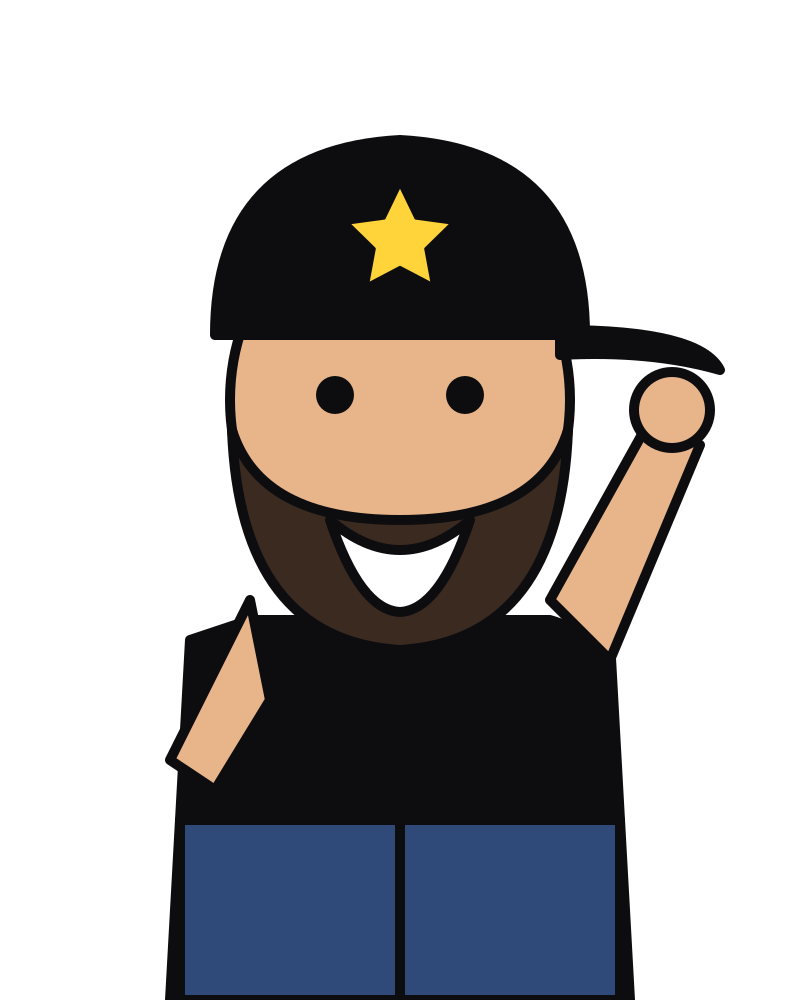
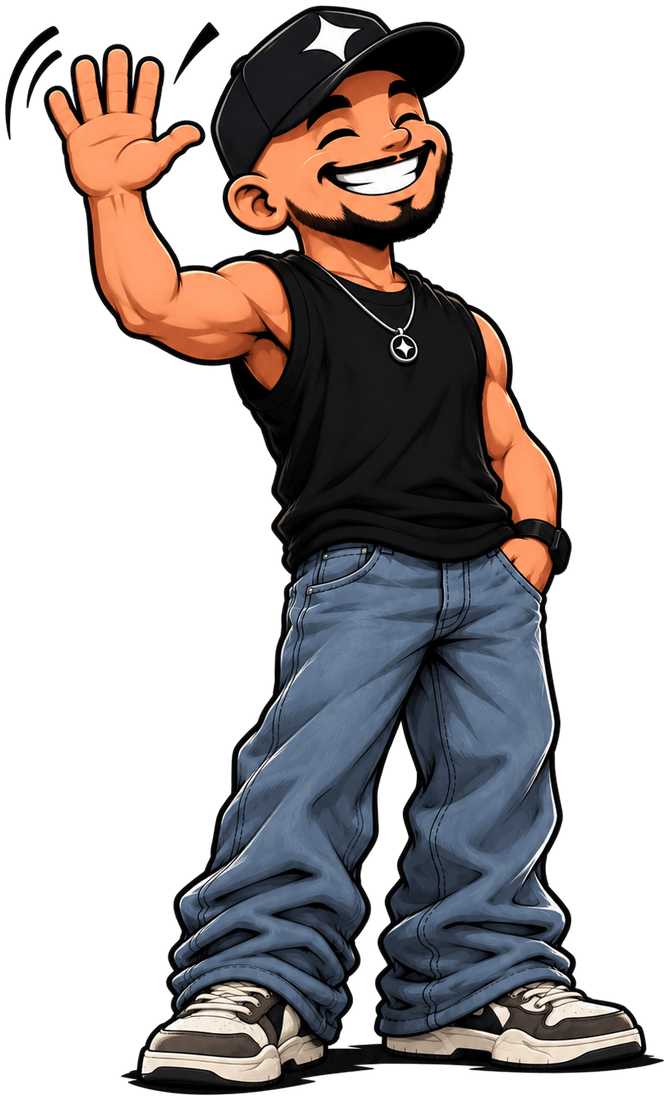
Install the final SHOWGUY mascot artwork
- Four poses (mic, wave, reach, point) with backgrounds cut out to
  transparent PNGs, trimmed and sized for the web.
- Placed by pose: full-body mic in the hero, chest-up reaching in the
  problem section and apply sidebar, pointing beside the final CTA, and
  waving on the thank-you page.
- Original uploads removed from the repo root (kept in git history).

Claude-Session: https://claude.ai/code/session_01TDno4tfALFccJgaoVV23Rq

diff --git a/src/config/brand.ts b/src/config/brand.ts
@@ -3,7 +3,7 @@
  * Drop your final files into /public/brand with the SAME file names and they
  * appear everywhere. See public/brand/README.md.
  *
- * If your final mascot images are a different shape, update width/height here.
+ * If you replace a mascot image with a different shape, update its width/height here.
  */
 export const brand = {
   logo: {
@@ -15,12 +15,20 @@ export const brand = {
     height: 234,
     alt: "SHOWGUY",
   },
+  /**
+   * The mascot poses (transparent PNGs in /public/brand). Width/height are each
+   * image's real size, so nothing jumps while it loads.
+   *   mic   – full body, microphone, hand reaching out
+   *   wave  – full body, waving
+   *   reach – chest-up version of "mic"
+   *   point – chest-up, pointing at you
+   */
   mascot: {
-    default: "/brand/mascot.png",
-    wave: "/brand/mascot-wave.png",
-    width: 800,
-    height: 1000,
-    alt: "The SHOWGUY mascot: a smiling, bearded cartoon man in a baseball cap, black sleeveless T-shirt and jeans",
+    mic: { src: "/brand/mascot-mic.png", width: 589, height: 1100 },
+    wave: { src: "/brand/mascot-wave.png", width: 669, height: 1100 },
+    reach: { src: "/brand/mascot-reach.png", width: 854, height: 900 },
+    point: { src: "/brand/mascot-point.png", width: 799, height: 900 },
+    alt: "The SHOWGUY mascot: a smiling, bearded man in a star-logo cap, black sleeveless T-shirt and jeans, holding a microphone",
   },
   socialCard: "/brand/social-card.jpg",
   favicon: "/brand/favicon.svg",

diff --git a/src/components/Mascot.tsx b/src/components/Mascot.tsx
@@ -2,7 +2,7 @@ import Image from "next/image";
 import { brand } from "@/config/brand";
 
 type Props = {
-  variant?: "default" | "wave";
+  variant?: "mic" | "wave" | "reach" | "point";
   className?: string;
   /** Gentle floating motion (switched off for reduced-motion users). */
   float?: boolean;
@@ -13,21 +13,22 @@ type Props = {
   decorative?: boolean;
 };
 
-/** The SHOWGUY mascot. Swap the files in /public/brand to change him everywhere. */
+/** The SHOWGUY mascot. Pick a pose with `variant`; swap the files in /public/brand to change him everywhere. */
 export function Mascot({
-  variant = "default",
+  variant = "mic",
   className = "",
   float = false,
   eager = false,
   sizes = "(min-width: 1024px) 520px, 70vw",
   decorative = true,
 }: Props) {
+  const pose = brand.mascot[variant];
   return (
     <Image
-      src={variant === "wave" ? brand.mascot.wave : brand.mascot.default}
+      src={pose.src}
       alt={decorative ? "" : brand.mascot.alt}
-      width={brand.mascot.width}
-      height={brand.mascot.height}
+      width={pose.width}
+      height={pose.height}
       sizes={sizes}
       loading={eager ? "eager" : "lazy"}
       fetchPriority={eager ? "high" : "auto"}

diff --git a/src/components/ApplySidebar.tsx b/src/components/ApplySidebar.tsx
@@ -51,7 +51,7 @@ export function ApplySidebar() {
       {/* Phones: a small mascot beside the intro, then straight into the form */}
       <div className="relative ml-auto -mt-2 w-20 lg:hidden">
         <div aria-hidden="true" className="absolute inset-x-0 bottom-0 aspect-square rounded-full bg-violet" />
-        <Mascot variant="wave" className="relative" sizes="80px" />
+        <Mascot variant="reach" className="relative" sizes="80px" />
       </div>
 
       {/* Desktop: what happens next, progress and the mascot, all in view at once */}
@@ -63,7 +63,7 @@ export function ApplySidebar() {
           <FormProgress sections={sections} variant="rail" />
           <div className="relative w-24 shrink-0 [@media(max-height:860px)]:hidden">
             <div aria-hidden="true" className="absolute inset-x-0 bottom-0 aspect-square rounded-full bg-violet" />
-            <Mascot variant="wave" className="relative" sizes="96px" />
+            <Mascot variant="reach" className="relative" sizes="96px" />
           </div>
         </div>
       </div>

diff --git a/src/app/apply/success/page.tsx b/src/app/apply/success/page.tsx
@@ -60,9 +60,9 @@ export default function ApplySuccessPage() {
           </div>
         </div>
 
-        <div className="relative mx-auto w-64 sm:w-80 lg:col-span-5 lg:w-full lg:max-w-md">
+        <div className="relative mx-auto w-52 sm:w-60 lg:col-span-5 lg:w-72">
           <div aria-hidden="true" className="absolute inset-x-[6%] bottom-0 aspect-square rounded-full bg-violet" />
-          <Mascot variant="wave" float eager className="relative" sizes="(min-width: 1024px) 448px, 320px" />
+          <Mascot variant="wave" float eager className="relative" sizes="(min-width: 1024px) 288px, 240px" />
         </div>
       </div>
     </div>

diff --git a/src/components/CTA.tsx b/src/components/CTA.tsx
@@ -32,7 +32,7 @@ export function CTA() {
         {/* He stands on the bottom edge of the section, beside the button */}
         <div className="relative mx-auto w-60 sm:w-80 lg:col-span-4 lg:w-full lg:max-w-md">
           <div aria-hidden="true" className="absolute inset-x-[8%] bottom-0 aspect-square rounded-full bg-violet" />
-          <Mascot variant="wave" float className="relative" sizes="(min-width: 1024px) 448px, 320px" />
+          <Mascot variant="point" float className="relative" sizes="(min-width: 1024px) 448px, 320px" />
         </div>
       </div>
     </section>

diff --git a/src/components/sections/Problem.tsx b/src/components/sections/Problem.tsx
@@ -44,7 +44,7 @@ export function Problem() {
           <div className="relative mx-auto -mb-20 w-44 sm:w-56 lg:col-span-4 lg:ml-auto lg:-mb-28 lg:w-64">
             <div aria-hidden="true" className="absolute inset-x-0 bottom-0 aspect-square rounded-full bg-violet" />
             <Star className="absolute -right-2 top-2 size-6" />
-            <Mascot variant="wave" className="relative" sizes="256px" />
+            <Mascot variant="reach" className="relative" sizes="256px" />
           </div>
         </div>
       </div>

diff --git a/src/components/Hero.tsx b/src/components/Hero.tsx
@@ -55,7 +55,7 @@ export function Hero() {
             <br />
             artists
           </div>
-          <Mascot float eager className="relative z-[5] mx-auto w-[96%]" sizes="(min-width: 1024px) 400px, 80vw" />
+          <Mascot variant="mic" float eager className="relative z-[5] mx-auto w-[60%]" sizes="(min-width: 1024px) 260px, 60vw" />
         </div>
       </div>
 

diff --git a/public/brand/README.md b/public/brand/README.md
@@ -6,13 +6,15 @@ Replace each placeholder with the real file, **keeping the same file name**. The
 |---|---|---|
 | `logo.svg` | Logo coloured for **light** backgrounds (rarely needed: the site is mostly dark). **Final logo installed.** | SVG |
 | `logo-dark.svg` | White logo for **dark** backgrounds (**used in the header and footer**). **Final logo installed.** | SVG |
-| `mascot.png` | Main mascot (hero, About) | PNG with transparent background, 800 × 1000 |
-| `mascot-wave.png` | Waving / pointing mascot (CTA, problem section, apply page) | PNG, transparent, 800 × 1000 |
+| `mascot-mic.png` | Full body, microphone, hand reaching out (**hero**) | transparent PNG |
+| `mascot-wave.png` | Full body, waving (**thank-you page**) | transparent PNG |
+| `mascot-reach.png` | Chest-up version of the mic pose (**problem section, apply page**) | transparent PNG |
+| `mascot-point.png` | Chest-up, pointing at you (**final call to action**) | transparent PNG |
 | `favicon.svg` | Browser tab icon | SVG, square |
 | `founder.jpg` | Founder portrait for the homepage About section (a tidy placeholder shows until it exists) | JPG, portrait ~4:5, e.g. 1200 × 1500 |
 | `social-card.jpg` | Picture shown when the site is shared on social media | JPG, 1200 × 630 |
 
 Convert any text in your logo to outlines before exporting, so it can never be clipped or change font on someone else's device.
 
-The mascot is placed on purple discs and panels around the site, so a transparent background matters. If your mascot images are a different shape, change `width` and `height` in `src/config/brand.ts`.
+The mascot is placed on purple discs and panels around the site, so a transparent background matters. If you replace a mascot image with a different shape, update its `width` and `height` in `src/config/brand.ts`.
 To add more mascot poses later, add the file here and a new entry in `brand.ts`.
